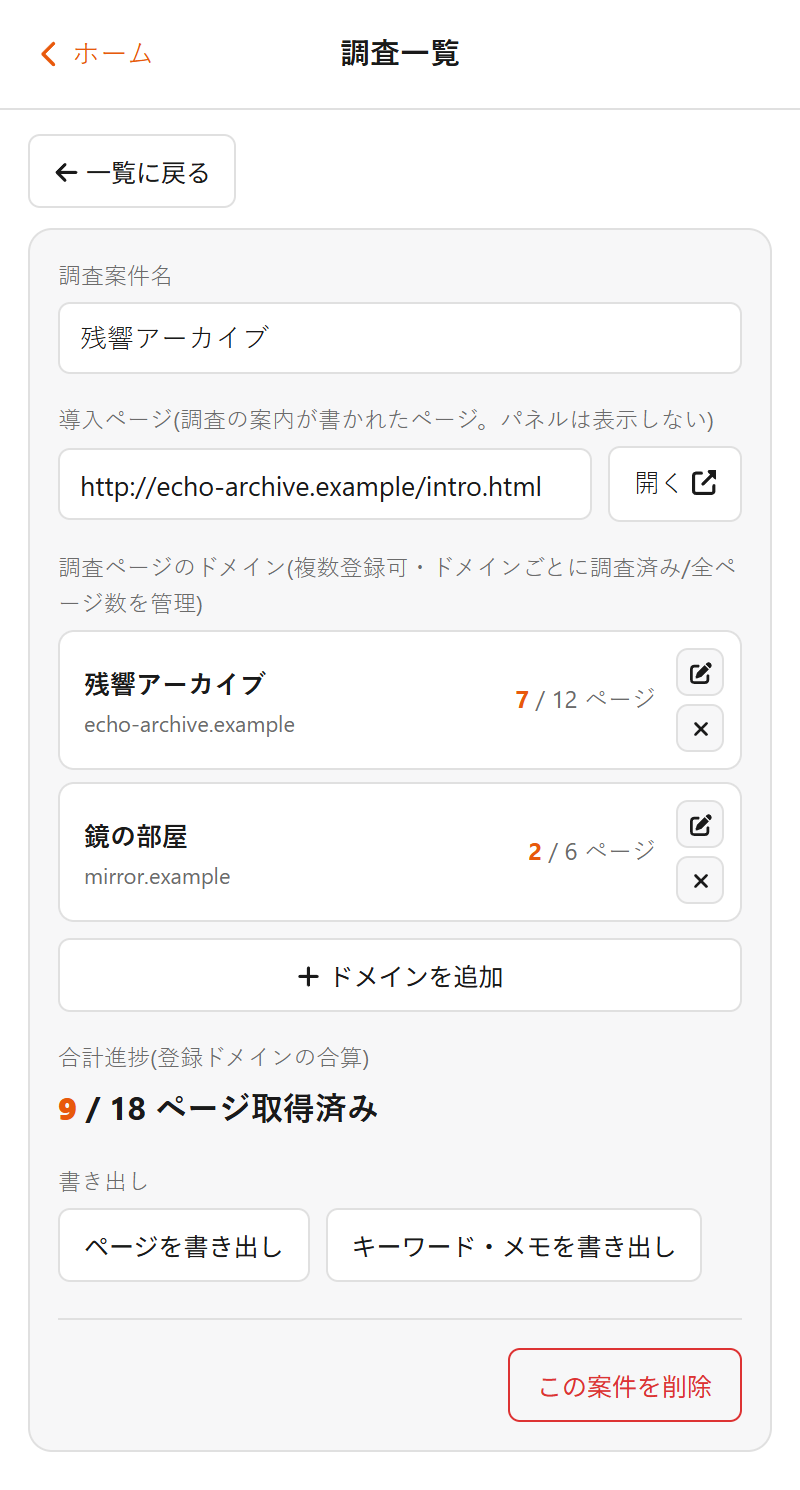
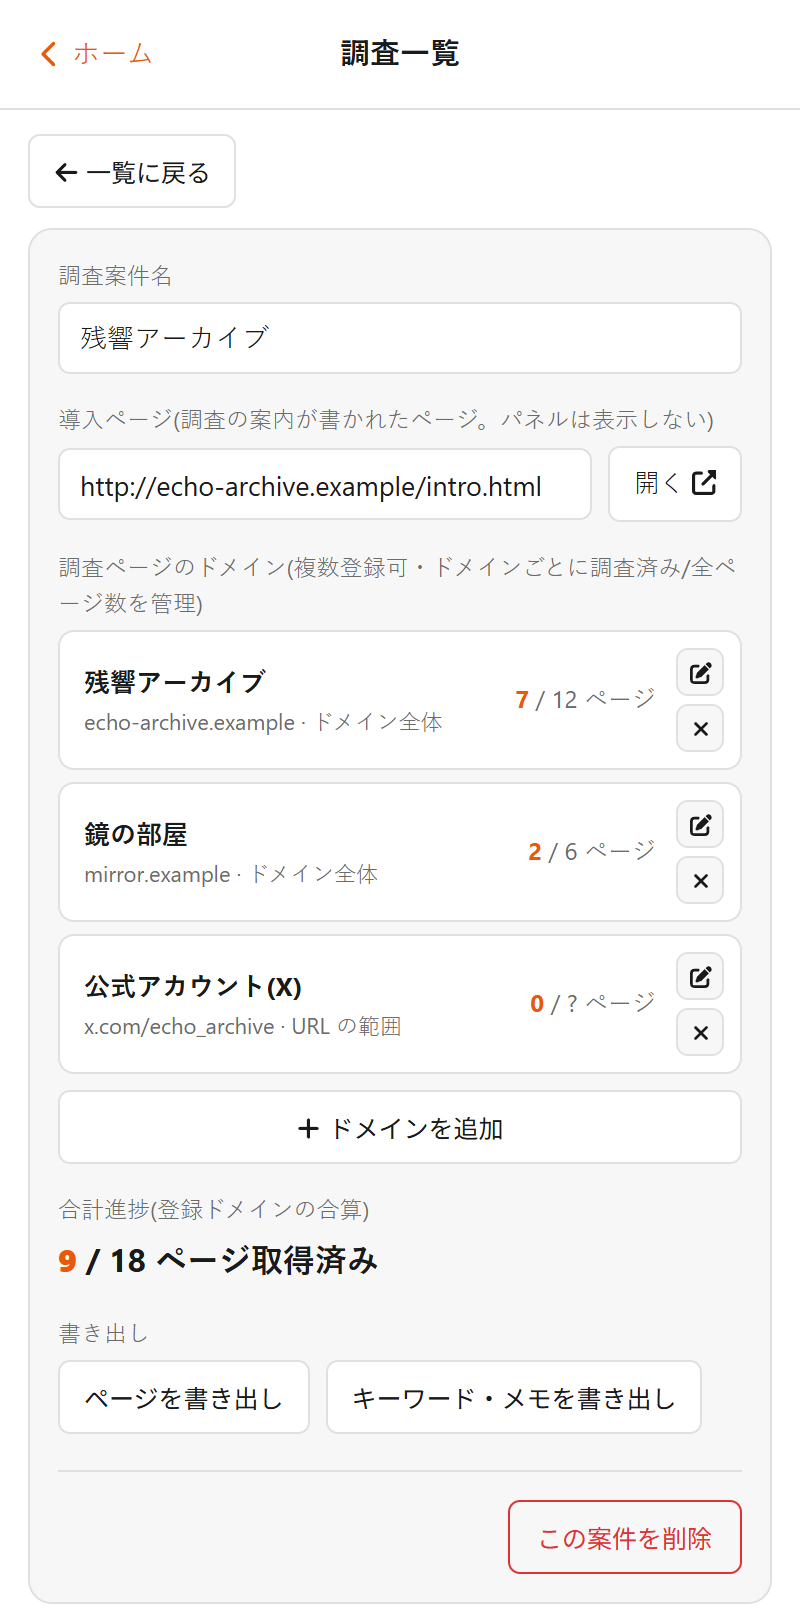
拡張機能 0.96.0(URL の範囲での登録)に合わせて説明を更新
- 03-start: 「YouTube や X のページを登録する」を追加(自動で範囲として登録・範囲の外ではパネルを隠す)
- 07-manager: ドメインの追加画面(登録する範囲・URL の範囲)の説明と画像を追加
- 08-menu / 09-faq / 04-pages / privacy: URL の範囲に合わせて文言を修正(www. の有無は区別しない)
- 撮影: 架空の調査データに X の範囲を足し、場面 domain-dialog を追加。管理画面の画像を撮り直し
- CLAUDE.md の対応表に domain-dialog を追加

diff --git a/tools/shoot.js b/tools/shoot.js
@@ -110,10 +110,22 @@ const SCENES = [
   { name: "manager-home", url: `${BASE}/options.html?reset`, w: 400, h: 340, steps: `await __h.wait(300);` },
   { name: "manager-list", url: `${BASE}/options.html?reset`, w: 400, h: 370, steps: `
       document.querySelector('[data-app="list"]').click();` },
-  { name: "manager-detail", url: `${BASE}/options.html?reset`, w: 400, h: 745, steps: `
+  { name: "manager-detail", url: `${BASE}/options.html?reset`, w: 400, h: 812, steps: `
       document.querySelector('[data-app="list"]').click();
       await __h.wait(200);
       document.querySelector('.project-tile').click();` },
+  { name: "domain-dialog", url: `${BASE}/options.html?reset`, w: 400, h: 830, steps: `
+      document.querySelector('[data-app="list"]').click();
+      await __h.wait(200);
+      document.querySelector('.project-tile').click();
+      await __h.wait(200);
+      document.querySelector('[data-action="add-domain"]').click();
+      await __h.wait(200);
+      document.querySelector('[data-domain-kind="path"]').click();
+      await __h.type(document.getElementById('domain-dialog-host'), 'x.com/echo_archive');
+      await __h.type(document.getElementById('domain-dialog-name'), '公式アカウント(X)');
+      document.activeElement.blur();`,
+    clip: `__h.rectOf([document.getElementById('domain-dialog')], 0)` },
   { name: "manager-settings", url: `${BASE}/options.html?reset`, w: 400, h: 1000, steps: `
       document.querySelector('[data-app="settings"]').click();` },
 ];

diff --git a/tools/testenv/seed.js b/tools/testenv/seed.js
@@ -43,6 +43,7 @@ window.__ARG_SEED = () => {
         domains: [
           { domain: location.hostname, name: "残響アーカイブ", totalPages: 12 },
           { domain: "mirror.example", name: "鏡の部屋", totalPages: 6 },
+          { domain: "x.com", path: "/echo_archive", name: "公式アカウント(X)", totalPages: null },
         ] },
       { id: P2, name: "灯台からの信号", startUrl: "https://lighthouse.example/", createdAt: t0 - 86400000 * 30,
         domains: [{ domain: "lighthouse.example", name: "", totalPages: 30 }] },

diff --git a/content/03-start.md b/content/03-start.md
@@ -5,7 +5,7 @@ ARG Notebook では、1 つの ARG を 1 つの「調査」として管理しま
 | ページ | どんなページか | パネル |
 |---|---|---|
 | **導入ページ** | 調査の案内や入口が書かれたページ(公式サイトの告知など) | 表示しない |
-| **調査ページ** | 実際に謎を調べていくページ。ドメイン(サイト)ごとに登録する | 表示する |
+| **調査ページ** | 実際に謎を調べていくページ。ドメイン(サイト)全体か、URL の範囲で登録する | 表示する |
 
 ### 1. 導入ページから調査を始める
 
@@ -35,12 +35,35 @@ images/start-dialog@2x.png
 そのページに、すぐに探索ログと収集ボックスが表示される
 ```
 
-リンクを右クリックして「ARG Notebook: リンク先を調査ページに追加 → (調査の名前)」を選ぶと、リンク先のサイトを開かずに登録できます。
+リンクを右クリックして「ARG Notebook: リンク先を調査ページに追加 → (調査の名前)」を選ぶと、リンク先のページを開かずに登録できます。
 
 ```tip
-調査ページは**ドメイン(サイト)ごと**に登録されます。一度登録すれば、同じサイトのどのページを開いてもパネルが表示されます。ARG が複数のサイトにまたがっているときは、サイトごとに追加してください。
+ふつうのサイトは**ドメイン(サイト)全体**で登録されます。一度登録すれば、同じサイトのどのページを開いてもパネルが表示されます。ARG が複数のサイトにまたがっているときは、サイトごとに追加してください。
 ```
 
 ```note
 導入ページには、そのサイトを調査ページとして登録していても、パネルは表示されません。調査中の導入ページは、管理画面のホーム画面にある「導入ページ」からいつでも開けます。
+```
+
+### 3. YouTube や X のページを登録する
+
+調査の途中で YouTube の動画や X(Twitter)のアカウントに誘導されることがあります。こうしたサイトをドメイン全体で登録すると、調査と関係なく YouTube や X を見ているときにもパネルが出てしまいます。そこで、調査ページは「**URL の範囲**」でも登録できます。URL の範囲で登録すると、その URL で始まるページだけにパネルが表示されます。
+
+YouTube・X・Instagram・TikTok では、右クリックの「このページを調査ページに追加」「リンク先を調査ページに追加」を選ぶと、**自動で URL の範囲として登録**されます。
+
+| 開いているページ | 登録される範囲 |
+|---|---|
+| X のアカウント・投稿 | `x.com/アカウント名`(そのアカウントのページすべて) |
+| YouTube のチャンネル | `youtube.com/@チャンネル名` |
+| YouTube の動画 | `youtube.com/watch?v=動画ID`(その動画だけ) |
+| Instagram・TikTok | アカウント(`instagram.com/名前`、`tiktok.com/@名前`)、または投稿 |
+
+```note
+YouTube の動画のページは、チャンネルの範囲には入りません。チャンネルと動画の両方を調べるときは、それぞれ登録してください。
+```
+
+範囲を自分で決めたいときは、管理画面の調査の詳細画面で「＋ ドメインを追加」を押し、「登録する範囲」で「URL の範囲」を選んで、`x.com/アカウント名` のように入力します(くわしくは「管理画面」)。
+
+```tip
+YouTube や X は、ページを読み直さずに画面だけが切り替わります。範囲の外のページに移るとパネルは自動で隠れ、範囲の中に戻るとまた表示されます。
 ```

diff --git a/content/08-menu.md b/content/08-menu.md
@@ -16,7 +16,7 @@ images/menu@2x.png
 | リンク先をファイル一覧に保存 | PDF などの資料へのリンクの上 | ツールボックスの「ファイル」に保存 |
 | このページを保存 | どこでも | 探索ログに保存 |
 | リンクをページとして保存 | リンクの上 | リンク先を探索ログに保存 |
-| リンク先を調査ページに追加 | まだ登録していないサイトへのリンクの上 | リンク先のサイトを、調査中の調査に登録 |
+| リンク先を調査ページに追加 | まだ登録していないページへのリンクの上 | リンク先のサイトを、調査中の調査に登録(YouTube・X などは URL の範囲で) |
 
 ```tip
 いつものブラウザのメニュー(「戻る」「コピー」など)を使いたいときは、**Shift キーを押しながら右クリック**してください。設定で、ブラウザ標準のメニューに切り替えることもできます。その場合、上の項目は「ARG Notebook: 〜」としてブラウザのメニューに並びます。
@@ -24,12 +24,12 @@ images/menu@2x.png
 
 ### 調査ページではないページ
 
-登録していないページでは、ブラウザのメニューに次の項目が並びます。
+登録していないページ(URL の範囲で登録したサイトの、範囲の外のページも)と導入ページでは、ブラウザのメニューに次の項目が並びます。
 
 | 項目 | すること |
 |---|---|
 | ARG Notebook: このページから調査を始める | このページを導入ページにして、新しい調査を作る |
-| ARG Notebook: このページを調査ページに追加 → (調査の名前) | このページのサイトを、選んだ調査に登録する |
-| ARG Notebook: リンク先を調査ページに追加 → (調査の名前) | リンク先のサイトを、選んだ調査に登録する |
+| ARG Notebook: このページを調査ページに追加 → (調査の名前) | このページのサイトを、選んだ調査に登録する(YouTube・X などは URL の範囲で) |
+| ARG Notebook: リンク先を調査ページに追加 → (調査の名前) | リンク先のサイトを、選んだ調査に登録する(YouTube・X などは URL の範囲で) |
 | ARG Notebook: このページを保存 | このページを探索ログに保存する |
 | ARG Notebook: 選択テキストをキーワードとして保存 | 選んだ文字をキーワードに保存する |

diff --git a/content/07-manager.md b/content/07-manager.md
@@ -38,10 +38,28 @@ images/manager-detail@2x.png
 |---|---|
 | 調査案件名 | 調査の名前 |
 | 導入ページ | 調査の案内が書かれたページの URL。「開く」で新しいタブに開きます |
-| 調査ページのドメイン | 登録したサイトの一覧。「＋ ドメインを追加」で追加し、編集ボタンで表示名と全部のページ数を設定します |
+| 調査ページのドメイン | 登録したサイト(ドメイン全体、または URL の範囲)の一覧。「＋ ドメインを追加」で追加し、編集ボタンで表示名と全部のページ数を設定します |
 | 合計進捗 | すべてのサイトの「見つけたページ数 / 全部のページ数」の合計 |
 | 書き出し | その調査のページ、またはキーワード・メモを、ファイル(JSON)に書き出します |
 | この案件を削除 | 調査と、保存したページ・キーワード・メモ・ファイルをすべて削除します |
+
+#### ドメインを追加する
+
+```figure
+images/domain-dialog@2x.png
+「＋ ドメインを追加」で出る画面。「URL の範囲」を選んだところ
+```
+
+| 項目 | 内容 |
+|---|---|
+| 登録する範囲 | 「ドメイン全体」はそのサイトのすべてのページに、「URL の範囲」は入力した URL で始まるページだけにパネルを表示します |
+| ドメイン / URL の範囲 | `example.com` や `x.com/アカウント名` のように入力します。`https://` から始まる URL をそのまま貼り付けても構いません |
+| 表示名(任意) | 探索ログの見出しに出る名前 |
+| 全ページ数(任意) | そのサイト(範囲)のページが全部で何ページあるか |
+
+```note
+URL の範囲は、区切り(`/`・`?`・`&`)の位置で判定します。`x.com/abc` で登録すると `x.com/abc/status/…` は入りますが、`x.com/abcdef` は入りません。大文字と小文字は区別しません。
+```
 
 ```tip
 「全部のページ数」を設定しておくと、探索ログのラベルに「9 / 18」のような進み具合が出て、グリッド表示にまだ見つけていない番号のマスも並びます。

diff --git a/CLAUDE.md b/CLAUDE.md
@@ -116,8 +116,8 @@ A: お使いのブラウザの中だけです。
 | ファイル・ライトボックス・ビューワー(`05-files-lightbox`) | `06-toolbox.md` | `tool-files`、`lightbox` |
 | ツールボックス・文字化け変換・モールス信号(`06-toolbox`、`tools.js`) | `06-toolbox.md` | `toolbox`、`tool-mojibake`、`tool-morse` |
 | 右クリックメニュー(`07-menu`) | `08-menu.md`(調査の始め方が変わったら `03-start.md` も) | `menu`、`start-dialog` |
-| 管理画面(`08-layout-misc` の 8.4) | `07-manager.md` | `manager-home`、`manager-list`、`manager-detail`、`manager-settings` |
-| 導入ページ・調査ページの登録(`08-layout-misc` の 8.7、`07-menu`) | `03-start.md`、`09-faq.md` | `start-dialog` |
+| 管理画面(`08-layout-misc` の 8.4) | `07-manager.md` | `manager-home`、`manager-list`、`manager-detail`、`domain-dialog`、`manager-settings` |
+| 導入ページ・調査ページの登録(`08-layout-misc` の 8.7、`07-menu`) | `03-start.md`、`09-faq.md`(URL の範囲は `07-manager.md` も) | `start-dialog`、`domain-dialog`、`manager-detail` |
 | 保存するデータ・権限(`02-data`、`manifest.json` の `permissions`) | `privacy.md` | — |
 | 対応する Chrome のバージョン(`manifest.json` の `minimum_chrome_version`) | `02-install.md` | — |
 | よくある問い合わせ・つまずきやすい点 | `09-faq.md` | — |

diff --git a/content/04-pages.md b/content/04-pages.md
@@ -35,7 +35,7 @@ images/pages-list@2x.png
 リスト表示。サイトごとに分かれ、見出しに「見つけた数 / 全部の数」が出ます
 ```
 
-- ページは**サイト(調査ページのドメイン)ごと**に分かれて並びます。今見ているサイトがいちばん上です。
+- ページは**サイト(調査ページのドメイン、または URL の範囲)ごと**に分かれて並びます。今見ているサイトがいちばん上です。
 - 見出しを押すと、そのサイトの一覧を畳めます。
 - 見出しの「見つけた数 / 全部の数」を**右クリック**すると、全部のページ数をその場で書き換えられます。
 - カードのタイトルを押すと、そのページに移動します。
